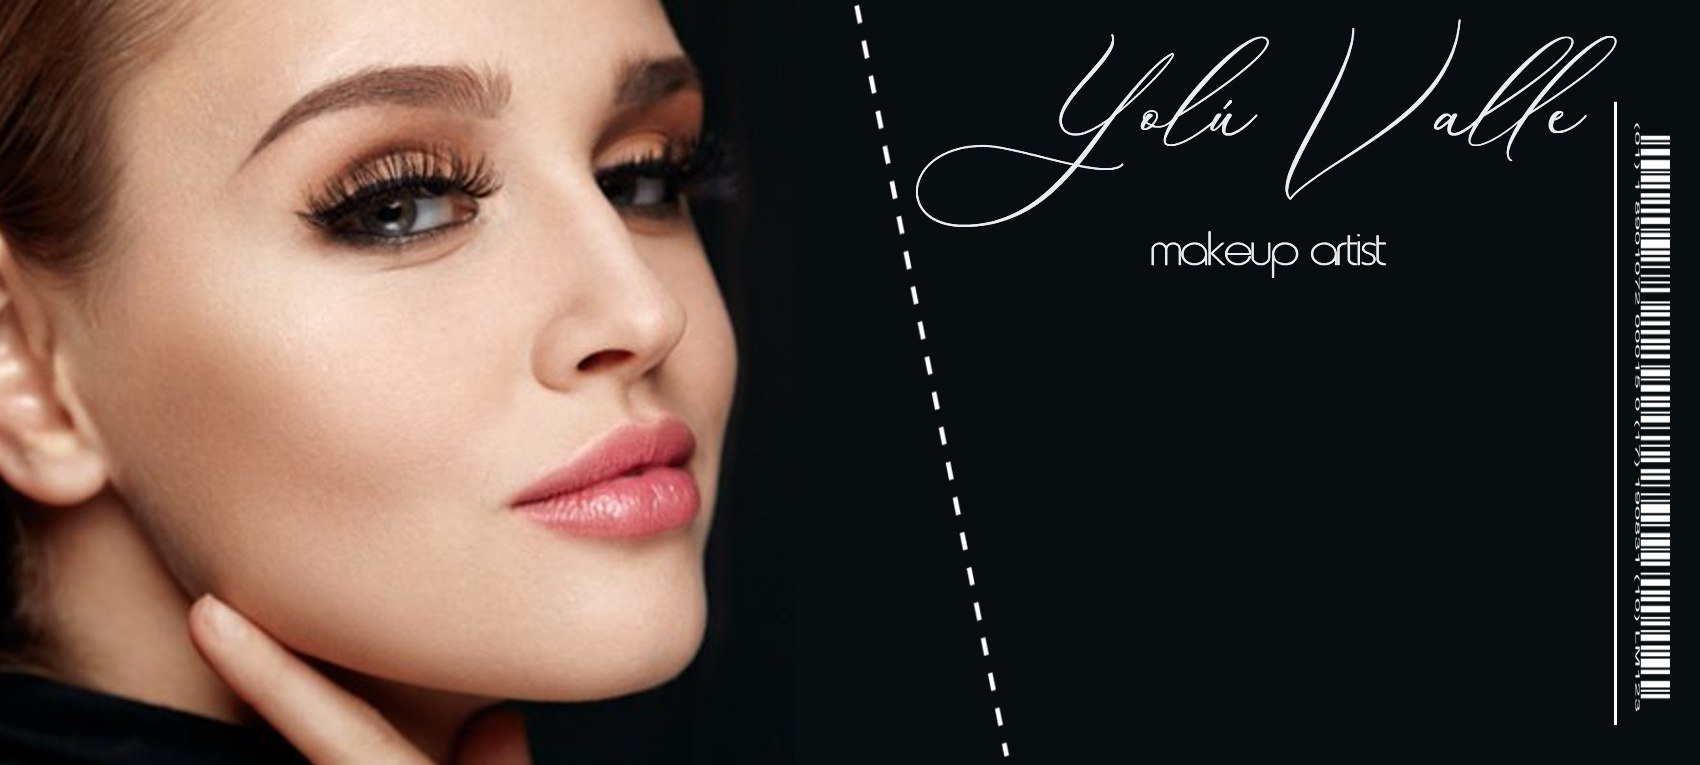
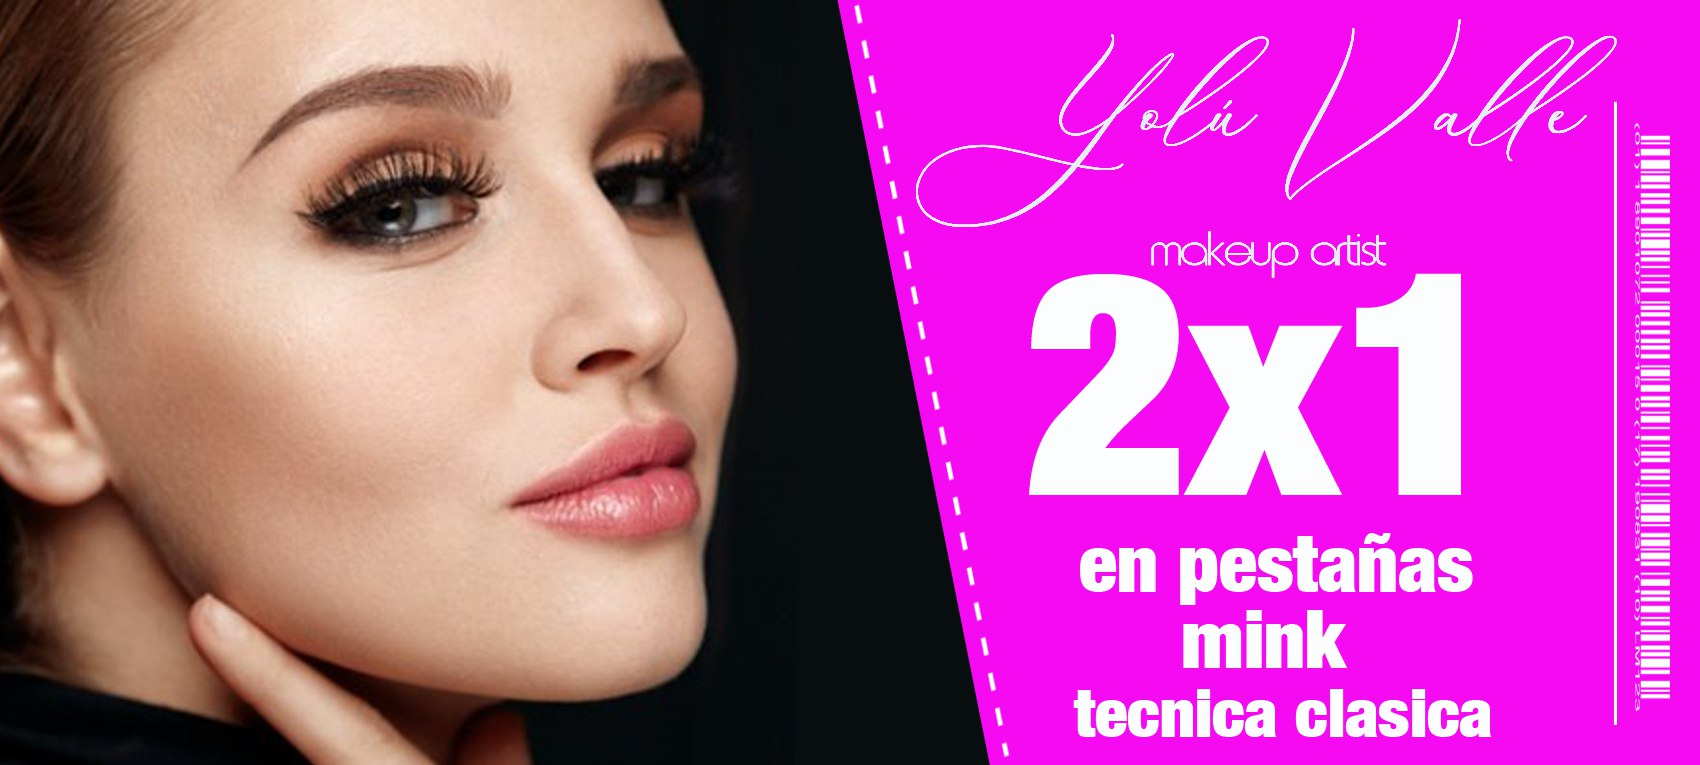
Cambio en el aspecto visual de las promociones. Correccion visual en los horarios

diff --git a/css/estilos.css b/css/estilos.css
@@ -245,9 +245,29 @@ a.resumen-link:hover{
 .caja-promo{
 	width: 100%;
 	position: relative;
-	padding: 3em 0;
-	margin-bottom: 20px;
-	border-top-left-radius: 5px;
+	padding: 5.5em 0;
+	border-radius: 5px;
+}
+.caja-link-negocio-promo{
+	display: block;
+	height: 11em;
+	width: 100%;
+	position: absolute;
+	margin-top: -5.5em;
+	z-index: 20;
+}
+.caja-link-negocio-promo:after{
+	content: ' ';
+	position: absolute;
+	top: 0;
+	right: 0;
+	bottom: 0;
+	left: 0;
+	border-radius: 5px;
+	background: rgba(0, 0, 0, 0.15);
+}
+.caja-link-negocio-promo:hover:after{
+	display: none;
 }
 .caja-negocio{
 	position: relative;
@@ -344,6 +364,9 @@ a.resumen-link:hover{
 }
 .horario-padding{
 	padding-right: 1em;
+}
+.horario tr {
+	vertical-align: top;
 }
 .info-element{
 	margin: 8px 0px;

diff --git a/app/buscador.inc.php b/app/buscador.inc.php
@@ -151,20 +151,7 @@ class EscritorPromociones{
       ?>
       <div class="col-12 col-sm-6 col-md-4 mt-4 d-flex">
           <div style="background-image: url(<?php echo $promo -> obtenerImg();?>);" class="centrar-imagen caja-promo">
-            <a href="<?php echo RUTA_NEGOCIO . '/' . $promo -> obtenerNegocioId();?>" class="caja-link-negocio"></a>
-            <a href="<?php echo RUTA_NEGOCIO . '/' . $promo -> obtenerNegocioId();?>">
-              <div class="resumen-promo">
-                <h5 class="resumen-acortador"><?php echo $promo -> obtenerNegocio();?></h5>
-              </div>
-            </a>
-          </div>
-          <div class="promo-box">
-            <div class="valor">
-              <?php echo $promo -> obtenerValor(); ?>
-            </div>
-            <div class="descripcion-promo">
-              <?php echo $promo -> obtenerDescripcion(); ?>
-            </div>
+            <a href="<?php echo RUTA_NEGOCIO . '/' . $promo -> obtenerNegocioId();?>" class="caja-link-negocio-promo"></a>
           </div>
       </div>
       <?php
@@ -177,20 +164,7 @@ class EscritorPromociones{
       ?>
       <div class="col-12 col-sm-6 col-md-6 mt-4 d-flex">
           <div style="background-image: url(<?php echo $promo -> obtenerImg();?>);" class="centrar-imagen caja-promo">
-            <a href="<?php echo RUTA_NEGOCIO . '/' . $promo -> obtenerNegocioId();?>" class="caja-link-negocio"></a>
-            <a href="<?php echo RUTA_NEGOCIO . '/' . $promo -> obtenerNegocioId();?>">
-              <div class="resumen-promo">
-                <h5 class="resumen-acortador"><?php echo $promo -> obtenerNegocio();?></h5>
-              </div>
-            </a>
-          </div>
-          <div class="promo-box">
-            <div class="valor">
-              <?php echo $promo -> obtenerValor(); ?>
-            </div>
-            <div class="descripcion-promo">
-              <?php echo $promo -> obtenerDescripcion(); ?>
-            </div>
+            <a href="<?php echo RUTA_NEGOCIO . '/' . $promo -> obtenerNegocioId();?>" class="caja-link-negocio-promo"></a>
           </div>
       </div>
       <?php

diff --git a/app/RepositorioNegocio.inc.php b/app/RepositorioNegocio.inc.php
@@ -95,7 +95,7 @@ class RepositorioNegocio{
 					}
 				}
 				else{
-					echo "No hay nada con horario";
+					echo "Horario no disponible";
 				}
 			} catch(PDOException $ex){
 				print 'ERROR'. $ex -> getMessage();
